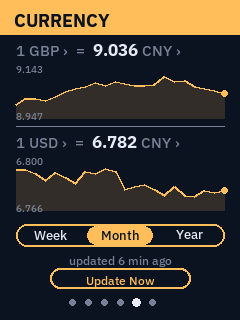
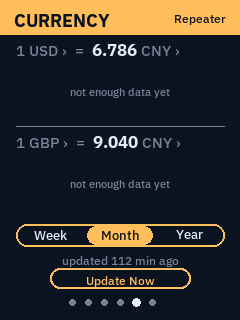
Update README and screenshots for the Active SIM rework + header indicator
- Active SIM section: SIM1/eSIM (SIM2 removed), connect toggle + optimistic
  feedback, roaming toggle, WAN status indicator in every header.
- Repeater section: notes remembered-network reconnect.
- Regenerated screenshots (SIM/Repeater still synthetic data, per the
  existing rule) to reflect the new layout and header indicator.

diff --git a/README.md b/README.md
@@ -30,8 +30,18 @@ page.
 |---|---|
 | ![Analog clock](screenshots/panel_clock.png) | ![Digital clock](screenshots/panel_clock_digital.png) |
 
-**Active SIM** — country flag, full number, a SIM1 / SIM2 / eSIM switch, a
-cellular data on/off toggle, and a data-usage bar against a cap you set.
+**Active SIM** — country flag, full number, a SIM1 / eSIM switch (SIM2 was
+removed: it and eSIM share the same physical slot on this hardware and
+behaved identically, so it wasn't a real third option), a cellular
+connect/disconnect toggle next to the flag, a data-roaming toggle, and a
+data-usage bar against a cap you set. The connect toggle shows optimistic
+feedback (flips immediately on tap, re-confirms after 2s) since this
+router's own multi-WAN manager can silently revert a manual connect when
+a healthier WAN is already active — the animation just confirms the tap
+registered, independent of whether the connection itself succeeds.
+
+Every panel's colored header also shows the active WAN connection type
+top-right (Repeater / Ethernet / 4G / 5G), refreshed periodically.
 
 **Weather** — 3-day forecast (hand-drawn icons: sun/cloud/rain/snow/fog/storm)
 for a city you pick from a scrollable list of 40+ cities.
@@ -59,6 +69,10 @@ installed" instead of breaking if OpenClash isn't on the device.
 **Repeater** (from the Home tile) — scans and lists nearby WiFi, connects to
 open networks directly or opens the on-screen keyboard for a password.
 Uses the same `ubus` `repeater` object the stock GL.iNet UI uses.
+Reconnecting to a previously-connected network doesn't ask for the
+password again — `remember: true` on connect already persists credentials
+to `/etc/config/repeater`; the UI checks there first before falling back
+to the keyboard.
 
 **More** (from the Home tile) — 2.4GHz/5GHz radio toggles, an Analog/Digital
 clock-style switch, a **Return to Stock UI** button (switches back
